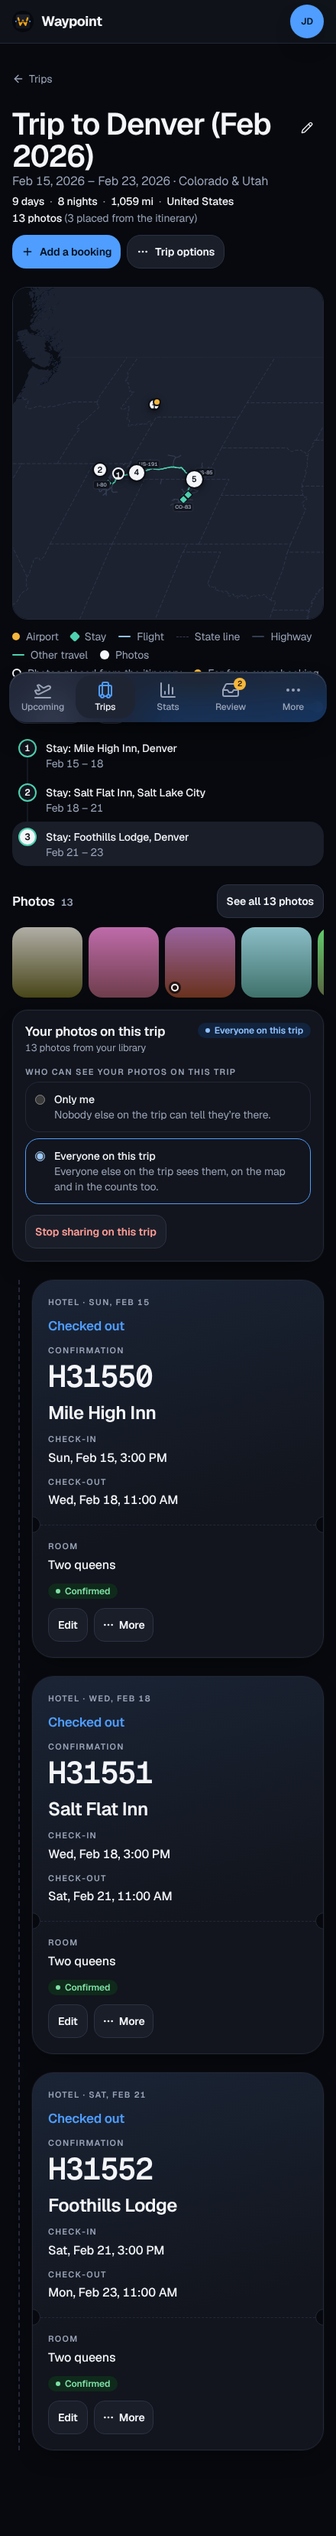
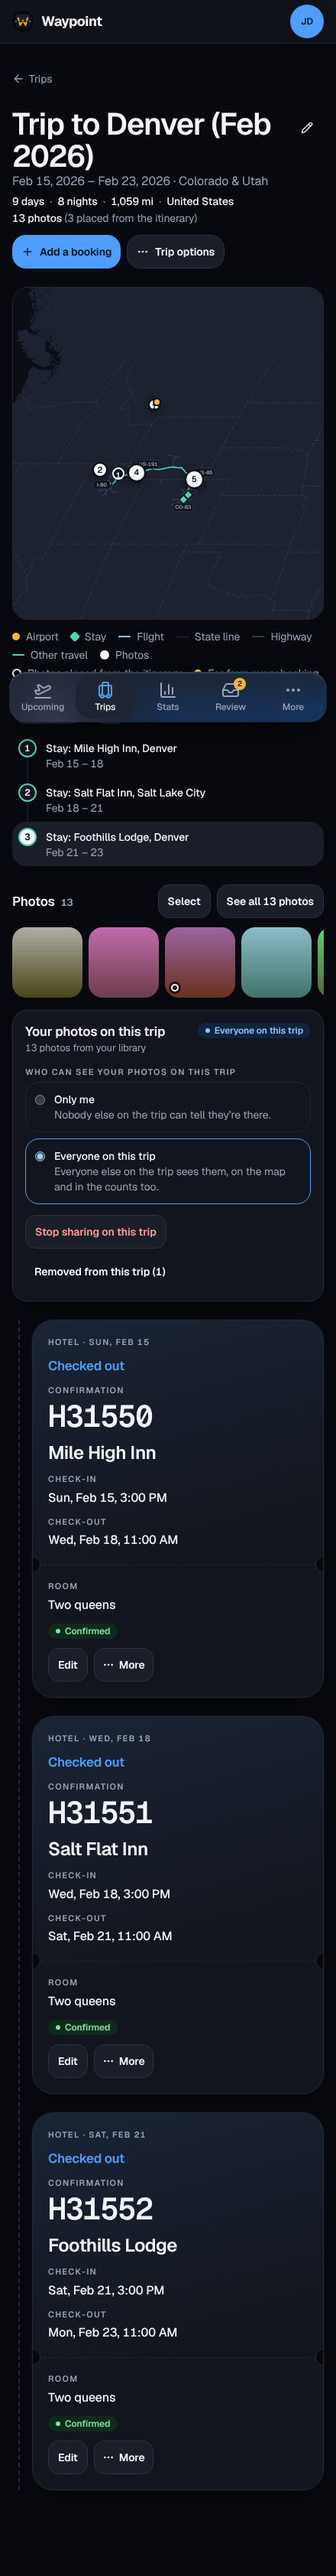
chore: regenerate the trip images and the verify feature map for the removal controls
Claude-Session: https://claude.ai/code/session_01VkTLMaRYAHGUMQLTkxcTjb

diff --git a/.claude/skills/verify-waypoint/references/feature-map.md b/.claude/skills/verify-waypoint/references/feature-map.md
@@ -252,7 +252,7 @@ What a person can do in the web app, by page: what is there, how to reach it, ho
 
 - **Starts at:** `#trips`; goes to: `#trip/7`.
 - **Widths:** phone, desktop.
-- **Expects to see:** `Remove from this trip`, `1 of 12`, `2 selected`.
+- **Expects to see:** `Remove from this trip`, `1 of 12`, `2 selected`, `10 photos from your library`.
 - **Console errors it expects:** `Applying inline style violates the following Content Security Policy`, `Blocked script execution in`.
 - **Drive it:** `tools/control flow photos-remove`; or `poetry run python run.py verify --flow photos-remove`.
 
